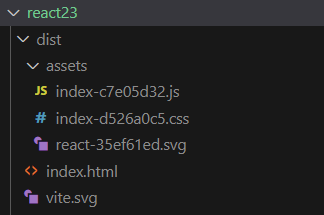
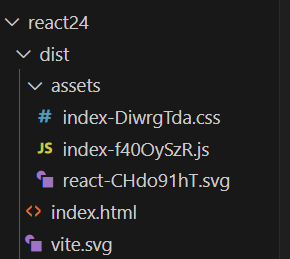
wk3 ish

Changed region(s): [[0.0, 0.0, 1.0, 1.0]]

diff --git a/Block_REACT/section_5/reactDevelopment1.md b/Block_REACT/section_5/reactDevelopment1.md
@@ -41,9 +41,9 @@ Bun uses the webkit javascript core engine, which is claimed to run faster than 
 
 Both of these alternative run times are worthy of investigation, but for the present purpose I will work with the stable node version 20.
 
-Node ia also associated with the package manager [npm](https://www.npmjs.com/) this is a repository which holds thousands of node modules which can be drawn into javascript applications.
+Node is also associated with the package manager [npm](https://www.npmjs.com/) this is a repository which holds thousands of node modules which can be drawn into javascript applications.
 
-Node is good, but it relies on installing these small node modules.  If you are careful you should make a distinction between modules which are installed globally, and therefore become part of your base node environment and those which are installed within the node-modules folder of your application.
+Node is good, but it relies on installing many small node modules.  If you are careful you should make a distinction between modules which are installed globally, and therefore become part of your base node environment and those which are installed within the node-modules folder of your application.
 
 Applications may be dependant on different versions of these node modules, so it is essential to be careful with version installation. Node dependencies are an important consideration in getting an application to run. This takes care to manage on a personal machine, but on a multi-user machine could become impracticable.
 
@@ -55,7 +55,7 @@ You could use a number of virtual linux machines to hold separate node environme
 
 I prefer to us lightweight linux based Docker containers to hold isolated node environments.
 
->If after that warning you still want to run node locally on windows you can install node locally but I generally prefer not to.  I suggest you prefer the docker approach as below.
+>If after that warning you still want to run node locally on windows you can install node locally but I generally prefer not to.  I suggest you adopt the docker approach as below.
 
 
 
@@ -74,7 +74,7 @@ Finally Docker can be used to set up containers with fuly developed code ready f
 
 ## Using React/Vite in a Development environment
 
-This is an adaptation of the tutorial [Creating a react app with Vite]](https://blog.openreplay.com/how-to-build-your-react-app-using-vite/) to a docker development system and and the typescript language.  Firstly an environment will be set up and then vite will be used in this environment to run a simple typescript application.
+This is an adaptation of the tutorial [Creating a react app with Vite]](https://blog.openreplay.com/how-to-build-your-react-app-using-vite/) to create a docker development system supporting react and the typescript language.  Before considering react, an environment will be set up and then vite will be used in this environment to run a simple demonstration typescript application.
 
 
 Before starting you will need docker desktop installed and running.  
@@ -89,7 +89,7 @@ Then you will need VScode with the devContainers extension installed.
 
 This will allow any local folder to be run in a docker development container and is an easy way to run with a development environment.
 
-Using github desktop, create a new repository named reactTS23.  This will be your initial working space for react code development.
+Using github desktop, create a new repository named reactTS24.  This will be your initial working space for react code development.
 
 > File|New Reppository or CTRL + N
 
@@ -122,7 +122,7 @@ On the first time of opening you are asked where you want to store the configura
 
 ![workspace](images/workspace.png)
 
-Then a prompt appears asking what type of container is needed.  Show all definitions and then choose 'Node & Typescript'
+Then a prompt appears asking what type of container is needed.  Click on "Show all template definitions and then choose 'Node & Typescript'
 
 ![node and typescript](images/nodeTypescript.png)
 
@@ -196,7 +196,7 @@ The node version can be checked by
 >node -v
 
 ```code
-v20.8.0
+v20.17.0
 ```
 
 The typescript version is checked by:
@@ -204,7 +204,7 @@ The typescript version is checked by:
 >tsc -v
 
 ```code
-Version 5.2.2
+Version 5.6.2
 ```
 
 Install vite with
@@ -241,8 +241,7 @@ Once the loading process has completed a package.json file is crated in the reac
 ```json
 {
   "dependencies": {
-    "react-router-dom": "^6.17.0",
-    "vite": "^4.5.5"
+    "vite": "^5.4.8"
   }
 }
 ```
@@ -290,7 +289,7 @@ Choose typescript
 Project is scaffolded
 
 ```code
-Scaffolding project in /workspaces/reactTS23/react24...
+Scaffolding project in /workspaces/reactTS24/react24...
 
 Done. Now run:
 
@@ -303,6 +302,8 @@ The folder react24 has been set up with the basic template code in the src folde
 
 ![starter structure](images/starterStructure.png)
 
+Note that there is a package.json file outside the react 24 project which we used to install vite.  There is a second package.json file inside the project react 24.
+
 > cd react24
 
 
@@ -312,7 +313,6 @@ Install the dependancies listed in src/package.json
 **src/package.json**
 ```json
 {
- {
   "name": "react24",
   "private": true,
   "version": "0.0.0",
@@ -341,31 +341,40 @@ Install the dependancies listed in src/package.json
     "vite": "^5.4.1"
   }
 }
-
 ```
+Note that you are working now inside the react24 project.
 
 > npm install
 
-Run the src code on the Vite development server.
+```code
+added 193 packages, and audited 194 packages in 2m
 
-Make a minor ajustment to package json adding --host to the script.
+41 packages are looking for funding
+  run `npm fund` for details
+
+found 0 vulnerabilities
+```
+
+Before running the src code on the Vite development server.
+
+Make a minor ajustment to src/package.json adding --host to the script.
 
 ```json
   "scripts": {
     "dev": "vite --host",
     "build": "tsc -b && vite build",
     "lint": "eslint .",
-    "preview": "vite preview"
+    "preview": "vite preview --host"
   },
 ```
 
 > npm run dev
 
 ```code
-VITE v5.4.7  ready in 902 ms
+ VITE v5.4.8  ready in 550 ms
 
   ➜  Local:   http://localhost:5173/
-  ➜  Network: use --host to expose
+  ➜  Network: http://172.17.0.2:5173/
   ➜  press h + enter to show help
 ```
 
@@ -466,16 +475,16 @@ Once code has been completed it can be built.  This polls all the javascript int
 > react24@0.0.0 build
 > tsc -b && vite build
 
-vite v5.4.7 building for production...
+vite v5.4.8 building for production...
 ✓ 34 modules transformed.
 dist/index.html                   0.46 kB │ gzip:  0.30 kB
-dist/assets/react-CHdo91hT.svg    4.13 kB │ gzip:  2.14 kB
+dist/assets/react-CHdo91hT.svg    4.13 kB │ gzip:  2.05 kB
 dist/assets/index-DiwrgTda.css    1.39 kB │ gzip:  0.72 kB
-dist/assets/index-f40OySzR.js   143.20 kB │ gzip: 46.04 kB
-✓ built in 939ms
+dist/assets/index-f40OySzR.js   143.20 kB │ gzip: 46.06 kB
+✓ built in 807ms
 ```
 
-Refresh the Explorer view to see that a new dist folder has been created.
+Refresh the Explorer view in VSC to see that a new dist folder has been created.
 
 ![dist](images/dist.png)
 
